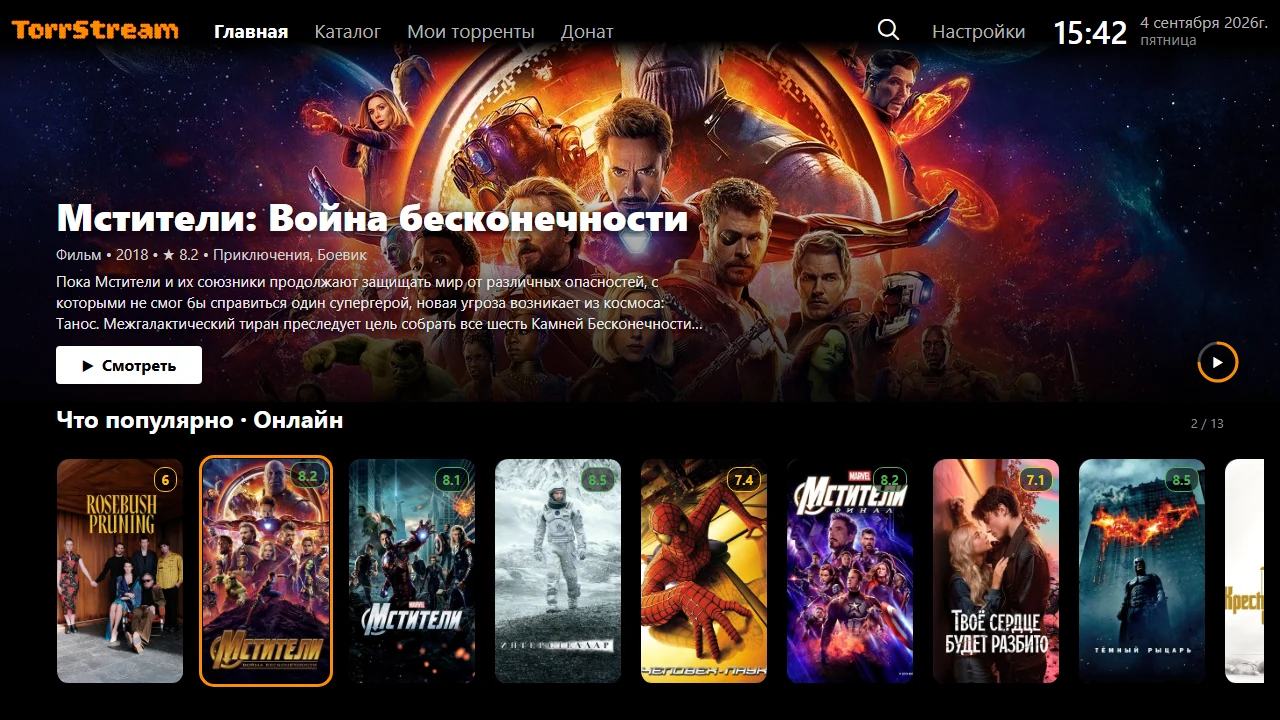
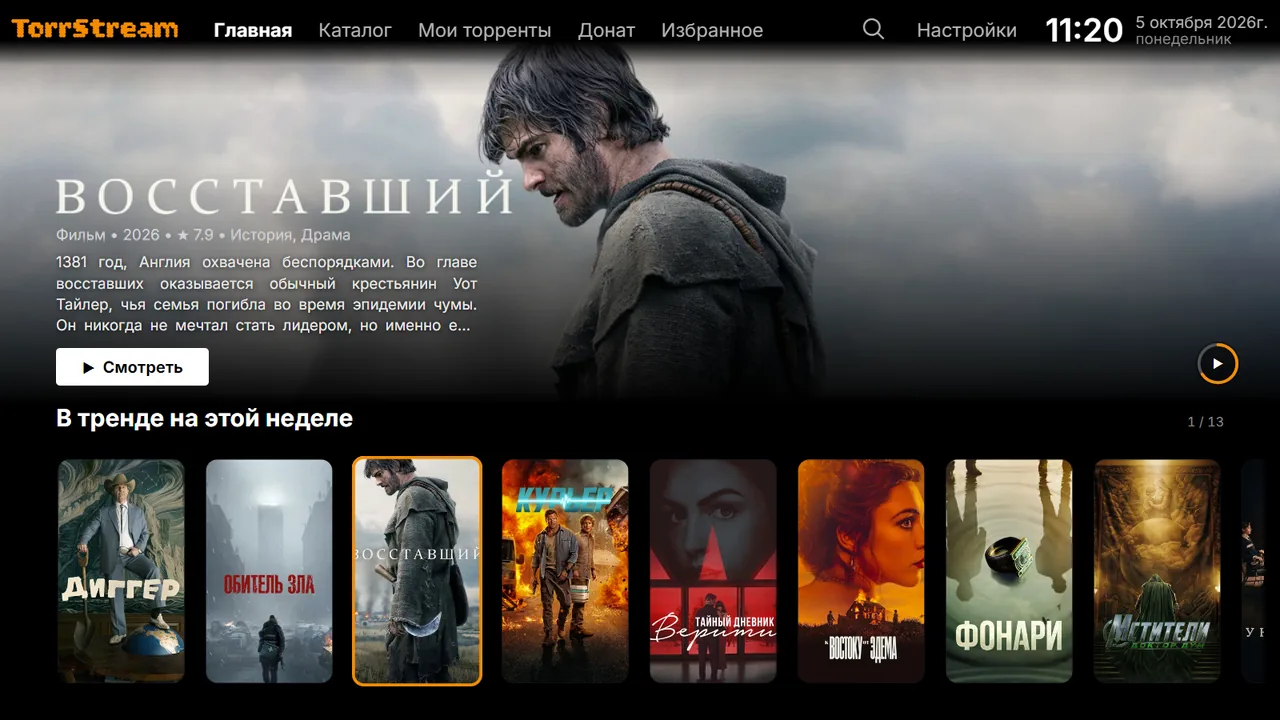
msx/guide: установка на Android TV/Fire TV и Android-телефон, поддержка в Telegram, новые скриншоты
- guide.html: три варианта установки (Downloader, код 2252342; Vidaa + компьютер;
  Vidaa + TorrStream Server), убрано ошибочное «на роутере», адрес TorrServer без
  протокола, поиск и встроенный TorrServer на Android, раздел «Вопросы и поддержка»
  со ссылкой на t.me/torrstream
- setup.html: разделы Android TV / Fire TV и Android-телефон, группы по типу ТВ,
  ссылка на группу; текст пунктов списка в отдельном span (flex разносил его по колонкам)
- все 12 скриншотов пересняты на текущем интерфейсе

diff --git a/msx/guide/setup.html b/msx/guide/setup.html
@@ -215,6 +215,28 @@
             margin: 18px 0;
         }
 
+        /* подпись группы карточек: «Android TV…», «Hisense / Vidaa…» */
+        .group-label {
+            font-size: 0.78rem;
+            font-weight: 600;
+            text-transform: uppercase;
+            letter-spacing: 0.6px;
+            color: #8e9fc3;
+            margin: 6px 8px 12px;
+        }
+
+        .big-code {
+            font-family: 'SF Mono', 'Fira Code', monospace;
+            font-size: 1.6rem;
+            font-weight: 700;
+            letter-spacing: 2px;
+            color: #ffb35c;
+        }
+
+        .card-content a {
+            color: #9ec1ff;
+        }
+
         .footer-tip {
             text-align: center;
             font-size: 0.7rem;
@@ -256,7 +278,87 @@
     <div class="container">
         <div class="hero">
             <h1>🎬 TorrStream</h1>
-            <p>установка + настройка на телевизоре Vidaa</p>
+            <p>установка на телевизор и сервер TorrStream</p>
+        </div>
+
+        <div class="group-label">📺 Android TV, Fire TV, приставки</div>
+
+        <!-- Android TV / Fire TV: приложение TorrStream через Downloader -->
+        <div class="card collapsed" id="cardAndroidTv">
+            <div class="os-header">
+                <span class="os-icon">🤖</span>
+                <span class="os-title">Android TV / Fire TV</span>
+                <span class="toggle-indicator">▼</span>
+            </div>
+            <div class="card-content">
+                <div class="step-badge">📥 УСТАНОВКА ПРИЛОЖЕНИЯ</div>
+                <ul class="tv-steps-list">
+                    <li><span class="step-num">1</span><span>Установить приложение <b>Downloader</b> (by AFTVnews) из
+                        магазина приложений приставки</span></li>
+                    <li><span class="step-num">2</span><span>Открыть Downloader и ввести код</span></li>
+                </ul>
+                <div class="code-panel">
+                    <span class="big-code">2252342</span>
+                    <button class="copy-icon-btn" data-copy="2252342">📋 Копировать</button>
+                </div>
+                <ul class="tv-steps-list">
+                    <li><span class="step-num">3</span><span>На открывшейся странице нажать кнопку
+                        «Рекомендуется» — APK скачается, подтвердить установку</span></li>
+                </ul>
+                <div class="info-grid">Вместо кода можно ввести адрес
+                    <a href="https://cash94.github.io/apk/">cash94.github.io/apk</a>. Не устанавливается — разрешите
+                    Downloader установку неизвестных приложений в настройках приставки.</div>
+
+                <div class="divider-light"></div>
+                <div class="step-badge">🧲 TORRSERVER</div>
+                <ul class="tv-steps-list">
+                    <li><span class="step-num">1</span><span>Открыть TorrStream → Настройки → Настройки TorrServer</span></li>
+                    <li><span class="step-num">2</span><span>TorrServer на самой приставке: включить «Использовать
+                        TorrServer, установленный на этом устройстве» и нажать «Скачать TorrServer»</span></li>
+                    <li><span class="step-num">3</span><span>TorrServer на другом устройстве: кнопка «Найти TorrServer в
+                        сети» или ввести адрес вручную (пример: 192.168.1.30:8090)</span></li>
+                </ul>
+            </div>
+        </div>
+
+        <div class="group-label">📺 Hisense / Vidaa — сервер TorrStream на одном из устройств в сети</div>
+
+        <!-- Android-телефон как сервер для Vidaa: TorrStream Server -->
+        <div class="card collapsed" id="cardAndroidServer">
+            <div class="os-header">
+                <span class="os-icon">📱</span>
+                <span class="os-title">Android-телефон</span>
+                <span class="toggle-indicator">▼</span>
+            </div>
+            <div class="card-content">
+                <div class="step-badge">📥 ПРИЛОЖЕНИЕ TORRSTREAM SERVER</div>
+                <ul class="tv-steps-list">
+                    <li><span class="step-num">1</span><span>На телефоне открыть
+                        <a href="https://cash94.github.io/apk/">cash94.github.io/apk</a> (на приставке — код
+                        <b>2252342</b> в Downloader) → TorrStream Server → «Рекомендуется»</span></li>
+                    <li><span class="step-num">2</span><span>Открыть TorrStream Server и нажать «Разрешить работу в
+                        фоне» — иначе система усыпит сервер с выключенным экраном</span></li>
+                    <li><span class="step-num">3</span><span>По желанию «Установить TorrServer» — тогда торренты будет
+                        отдавать сам телефон</span></li>
+                    <li><span class="step-num">4</span><span>Нажать «Запустить сервер» — на экране появится адрес для
+                        телевизора (пример: http://192.168.1.30:3000)</span></li>
+                </ul>
+                <div class="info-grid">Телефон и телевизор должны быть в одной Wi-Fi сети. Если TorrServer работает
+                    на телефоне, его адрес телевизор подставит сам.</div>
+                <div class="divider-light"></div>
+                <div class="step-badge">📺 Действия на телевизоре</div>
+                <ul class="tv-steps-list">
+                    <li><span class="step-num">1</span><span>Открыть браузер на ТВ и перейти по адресу vidaapp.cfd → найти
+                        TorrStream → установить</span></li>
+                    <li><span class="step-num">2</span><span>Перезагрузить телевизор</span></li>
+                    <li><span class="step-num">3</span><span>Запустить TorrStream и ввести адрес с экрана TorrStream Server
+                        (пример:
+                        http://192.168.1.30:3000)</span></li>
+                    <li><span class="step-num">4</span><span>В поле TorrServer указать адрес TorrServer
+                        (пример:
+                        http://192.168.1.30:8090)</span></li>
+                </ul>
+            </div>
         </div>
 
         <!-- Windows x64 (по умолчанию свернут) -->
@@ -289,16 +391,15 @@
                 <div class="divider-light"></div>
                 <div class="step-badge">📺 Действия на телевизоре</div>
                 <ul class="tv-steps-list">
-                    <li><span class="step-num">1</span> Открыть браузер на ТВ и перейти по адресу vidaapp.cfd → найти
-                        TorrStream → установить</li>
-                    <li><span class="step-num">2</span> Перезагрузить телевизор</li>
-                    <li><span class="step-num">3</span> Запустить TorrStream и ввести адрес который указан в консоли
+                    <li><span class="step-num">1</span><span>Открыть браузер на ТВ и перейти по адресу vidaapp.cfd → найти
+                        TorrStream → установить</span></li>
+                    <li><span class="step-num">2</span><span>Перезагрузить телевизор</span></li>
+                    <li><span class="step-num">3</span><span>Запустить TorrStream и ввести адрес который указан в консоли
                         (пример:
-                        http://192.168.1.30:3000)
-                    </li>
-                    <li><span class="step-num">4</span> В поле TorrServer указать адрес TorrServer
+                        http://192.168.1.30:3000)</span></li>
+                    <li><span class="step-num">4</span><span>В поле TorrServer указать адрес TorrServer
                         (пример:
-                        http://192.168.1.30:8090)</li>
+                        http://192.168.1.30:8090)</span></li>
                 </ul>
                 <div class="warning-block">⚠ Если TorrServer установлен локально, а программа установлена на VPS —
                     такая связка работать НЕ будет!</div>
@@ -328,16 +429,15 @@
                 <div class="divider-light"></div>
                 <div class="step-badge">📺 Действия на телевизоре</div>
                 <ul class="tv-steps-list">
-                    <li><span class="step-num">1</span> Открыть браузер на ТВ и перейти по адресу vidaapp.cfd → найти
-                        TorrStream → установить</li>
-                    <li><span class="step-num">2</span> Перезагрузить телевизор</li>
-                    <li><span class="step-num">3</span> Запустить TorrStream и ввести адрес который указан в консоли
+                    <li><span class="step-num">1</span><span>Открыть браузер на ТВ и перейти по адресу vidaapp.cfd → найти
+                        TorrStream → установить</span></li>
+                    <li><span class="step-num">2</span><span>Перезагрузить телевизор</span></li>
+                    <li><span class="step-num">3</span><span>Запустить TorrStream и ввести адрес который указан в консоли
                         (пример:
-                        http://192.168.1.30:3000)
-                    </li>
-                    <li><span class="step-num">4</span> В поле TorrServer указать адрес TorrServer
+                        http://192.168.1.30:3000)</span></li>
+                    <li><span class="step-num">4</span><span>В поле TorrServer указать адрес TorrServer
                         (пример:
-                        http://192.168.1.30:8090)</li>
+                        http://192.168.1.30:8090)</span></li>
                 </ul>
                 <div class="warning-block">⚠ Если TorrServer установлен локально, а программа установлена на VPS —
                     такая связка работать НЕ будет!</div>
@@ -367,16 +467,15 @@
                 <div class="divider-light"></div>
                 <div class="step-badge">📺 Действия на телевизоре</div>
                 <ul class="tv-steps-list">
-                    <li><span class="step-num">1</span> Открыть браузер на ТВ и перейти по адресу vidaapp.cfd → найти
-                        TorrStream → установить</li>
-                    <li><span class="step-num">2</span> Перезагрузить телевизор</li>
-                    <li><span class="step-num">3</span> Запустить TorrStream и ввести адрес который указан в консоли
+                    <li><span class="step-num">1</span><span>Открыть браузер на ТВ и перейти по адресу vidaapp.cfd → найти
+                        TorrStream → установить</span></li>
+                    <li><span class="step-num">2</span><span>Перезагрузить телевизор</span></li>
+                    <li><span class="step-num">3</span><span>Запустить TorrStream и ввести адрес который указан в консоли
                         (пример:
-                        http://192.168.1.30:3000)
-                    </li>
-                    <li><span class="step-num">4</span> В поле TorrServer указать адрес TorrServer
+                        http://192.168.1.30:3000)</span></li>
+                    <li><span class="step-num">4</span><span>В поле TorrServer указать адрес TorrServer
                         (пример:
-                        http://192.168.1.30:8090)</li>
+                        http://192.168.1.30:8090)</span></li>
                 </ul>
                 <div class="warning-block">⚠ Если TorrServer установлен локально, а программа установлена на VPS —
                     такая связка работать НЕ будет!</div>
@@ -384,7 +483,10 @@
         </div>
 
         <div class="footer-tip">
-            💡 Нажмите на заголовок платформы, чтобы развернуть инструкцию
+            💡 Нажмите на заголовок платформы, чтобы развернуть инструкцию<br>
+            📘 <a href="guide.html" style="color:#9ec1ff">Как пользоваться TorrStream</a><br>
+            💬 Вопросы и помощь — в группе Telegram
+            <a href="https://t.me/torrstream" target="_blank" rel="noopener" style="color:#9ec1ff">t.me/torrstream</a>
         </div>
     </div>
 

diff --git a/msx/guide/guide.html b/msx/guide/guide.html
@@ -524,6 +524,7 @@
                 <a href="#install">Установка</a>
                 <a href="#guide">Инструкция</a>
                 <a href="#remote">Пульт</a>
+                <a href="#help">Помощь</a>
                 <a href="#donate">Поддержать</a>
             </nav>
         </div>
@@ -543,6 +544,7 @@
             <div class="cta">
                 <a class="btn btn-primary" href="setup.html">📥 Установить на устройство</a>
                 <a class="btn btn-ghost" href="#guide">📘 Как пользоваться</a>
+                <a class="btn btn-ghost" href="https://t.me/torrstream" target="_blank" rel="noopener">💬 Группа в Telegram</a>
             </div>
 
             <div class="hero-shot">
@@ -642,16 +644,41 @@
             </div>
 
             <div class="step">
-                <p>Нужны две вещи: <strong>TorrServer</strong> (раздаёт торренты) и
-                    <strong>TorrStream</strong> (то, что вы видите на экране). Программа TorrStream
-                    запускается на компьютере или роутере в вашей сети, а телевизор открывает её по адресу.
-                </p>
+                <p>Нужны две вещи в одной домашней сети: <strong>TorrServer</strong> (качает торрент
+                    и отдаёт видео) и <strong>TorrStream</strong> (то, что вы видите на экране).
+                    Как поставить TorrStream — зависит от телевизора:</p>
+            </div>
+
+            <div class="features">
+                <div class="feature">
+                    <span class="ico">📺</span>
+                    <h3>Android TV, Fire TV, приставки</h3>
+                    <p>Приложение TorrStream ставится прямо на устройство: в приложении
+                        <strong>Downloader</strong> введите код <span class="pill">2252342</span>.
+                        TorrServer можно скачать и запустить прямо из его настроек.</p>
+                </div>
+                <div class="feature">
+                    <span class="ico">💻</span>
+                    <h3>Vidaa + компьютер</h3>
+                    <p>На телевизор Hisense / Vidaa — приложение из магазина vidaapp.cfd, а сервер
+                        TorrStream — на компьютере с Windows, Linux или macOS в той же сети.</p>
+                </div>
+                <div class="feature">
+                    <span class="ico">📱</span>
+                    <h3>Vidaa + Android-телефон</h3>
+                    <p>Компьютера нет — сервером станет Android-телефон или приставка: приложение
+                        <strong>TorrStream Server</strong>, TorrServer ставится в нём же.</p>
+                </div>
+            </div>
+
+            <div class="step">
                 <div class="note">
-                    <b>Важно:</b> адрес TorrStream и адрес TorrServer — это два разных адреса.
-                    Не перепутайте их при первой настройке.
+                    <b>Важно:</b> адрес сервера TorrStream (порт 3000) и адрес TorrServer (порт 8090) —
+                    это два разных адреса. Не перепутайте их при первой настройке.
                 </div>
                 <div class="cta" style="justify-content:flex-start;margin-top:16px">
-                    <a class="btn btn-primary" href="setup.html">📄 Пошаговая установка (Vidaa и другие ТВ)</a>
+                    <a class="btn btn-primary" href="setup.html">📄 Пошаговая установка</a>
+                    <a class="btn btn-ghost" href="https://cash94.github.io/apk/">🤖 Скачать для Android</a>
                 </div>
             </div>
         </section>
@@ -670,10 +697,15 @@
                     <h3>Подключение к TorrServer</h3>
                 </div>
                 <p>Откройте <strong>Настройки</strong> в шапке и на вкладке «Настройки TorrServer»
-                    укажите адрес с протоколом — например <span class="pill">http://192.168.1.10:8090</span>.
+                    укажите адрес — например <span class="pill">192.168.1.10:8090</span>
+                    (<span class="pill">http://</span> подставится сам, для HTTPS есть переключатель).
                     Кружок рядом покажет состояние: <strong>зелёный</strong> — сервер отвечает,
                     <strong>красный</strong> — недоступен.
                 </p>
+                <p>В приложении для Android адрес можно не вводить: кнопка «Найти TorrServer в сети»
+                    покажет серверы в вашей сети, а переключатель «Использовать TorrServer, установленный
+                    на этом устройстве» с кнопкой «Скачать TorrServer» поставит и запустит его прямо
+                    на приставке.</p>
                 <p>Здесь же включается авторизация, добавление торрентов в базу и транскодирование,
                     а кнопка «Замерить скорость» проверит канал до сервера.</p>
                 <div class="shot"><img src="07-settings.webp" alt="Настройки TorrServer" loading="lazy"
@@ -733,9 +765,9 @@
                 </div>
                 <p>Описание, рейтинг, год и жанры, а под ними — кнопки действий:</p>
                 <div class="keys" style="margin:12px 0">
-                    <div class="key-row"><kbd>Поиск</kbd><span>подобрать раздачи под этот фильм</span></div>
+                    <div class="key-row"><kbd>Поиск торрентов</kbd><span>подобрать раздачи под этот фильм</span></div>
                     <div class="key-row"><kbd>Подробнее</kbd><span>полное описание и детали</span></div>
-                    <div class="key-row"><kbd>★</kbd><span>добавить в избранное</span></div>
+                    <div class="key-row"><kbd>☆ Избранное</kbd><span>добавить в избранное — оно открывается и кнопкой «Избранное» в шапке</span></div>
                     <div class="key-row"><kbd>▶ Трейлер</kbd><span>трейлер во встроенном плеере</span></div>
                 </div>
                 <p>Ниже — ряд <strong>«В главных ролях»</strong> и <strong>«Похожие фильмы»</strong>.
@@ -868,6 +900,26 @@
         </section>
 
         <!-- ── ДОНАТ ─────────────────────────────────────────────── -->
+        <!-- ── ПОМОЩЬ ────────────────────────────────────────────── -->
+        <section id="help">
+            <div class="sec-head">
+                <div class="kicker">Помощь</div>
+                <h2>Вопросы и поддержка</h2>
+            </div>
+            <div class="step">
+                <p>Поддержка TorrStream — в группе в Telegram: там помогут с установкой и настройкой,
+                    туда же пишите об ошибках и пожеланиях. В закреплённом сообщении — короткая
+                    инструкция для всех устройств.</p>
+                <p>Чтобы помогли быстрее, сразу укажите: устройство (модель телевизора, приставки
+                    или телефона), где установлены TorrServer и сервер TorrStream, что делали и что
+                    увидели — со скриншотом. Для TorrStream Server приложите журнал:
+                    «Журнал» → «Отправить».</p>
+                <div class="cta" style="justify-content:flex-start;margin-top:16px">
+                    <a class="btn btn-primary" href="https://t.me/torrstream" target="_blank" rel="noopener">💬 t.me/torrstream</a>
+                </div>
+            </div>
+        </section>
+
         <section id="donate">
             <div class="sec-head">
                 <div class="kicker">Поддержка</div>
@@ -882,7 +934,8 @@
 
         <footer>
             <p>TorrStream — стриминг торрентов в локальной сети и не только.</p>
-            <p style="margin-top:6px"><a href="setup.html">Инструкция по установке</a></p>
+            <p style="margin-top:6px"><a href="setup.html">Инструкция по установке</a> ·
+                <a href="https://t.me/torrstream" target="_blank" rel="noopener">Поддержка в Telegram</a></p>
         </footer>
     </div>
 
